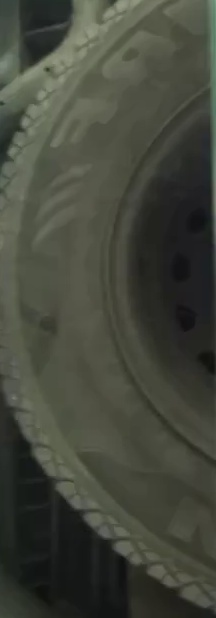
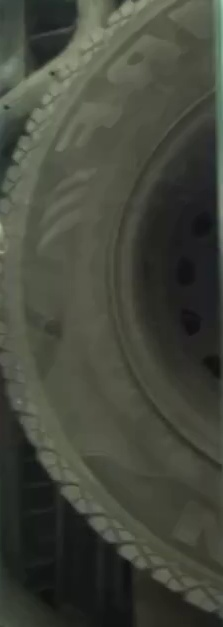
bounding box and combine image added in single file

diff --git a/main.py b/main.py
@@ -1,42 +1,90 @@
 import cv2
 import tkinter as tk
-from tkinter import ttk
+from tkinter import ttk, messagebox
 import os
 import numpy as np
 
-# Function to extract and crop frames
+# Global variables for bounding box selection
+bbox = None
+cropping = False
+x_start, y_start, x_end, y_end = 0, 0, 0, 0
+
+def select_bbox(event, x, y, flags, param):
+    """Handles mouse events for selecting the bounding box."""
+    global x_start, y_start, x_end, y_end, cropping, bbox
+    if event == cv2.EVENT_LBUTTONDOWN:
+        x_start, y_start = x, y
+        cropping = True
+    elif event == cv2.EVENT_MOUSEMOVE and cropping:
+        x_end, y_end = x, y
+    elif event == cv2.EVENT_LBUTTONUP:
+        x_end, y_end = x, y
+        cropping = False
+        bbox = (min(x_start, x_end), min(y_start, y_end), abs(x_end - x_start), abs(y_end - y_start))
+        print(f"Selected Bounding Box: {bbox}")
+        messagebox.showinfo("Bounding Box Selected", f"Coordinates: {bbox}")
+        cv2.destroyAllWindows()
+
+def show_first_frame():
+    """Displays the first frame of the video and lets the user select a bounding box."""
+    global bbox
+
+    cap = cv2.VideoCapture("video.mp4")
+    ret, frame = cap.read()
+    cap.release()
+
+    if not ret:
+        messagebox.showerror("Error", "Cannot read video file")
+        return
+
+    frame = cv2.rotate(frame, cv2.ROTATE_90_COUNTERCLOCKWISE)
+
+    cv2.namedWindow("Select Bounding Box")
+    cv2.setMouseCallback("Select Bounding Box", select_bbox)
+
+    while True:
+        temp_frame = frame.copy()
+        if bbox:
+            x, y, w, h = bbox
+            cv2.rectangle(temp_frame, (x, y), (x + w, y + h), (0, 255, 0), 2)
+        cv2.imshow("Select Bounding Box", temp_frame)
+        key = cv2.waitKey(1) & 0xFF
+        if key == 27 or bbox:
+            break
+
+    cv2.destroyAllWindows()
+
 def extract_frames():
-    video_path = "video.mp4"  # Change if needed
+    """Extracts and crops frames based on the selected bounding box."""
+    global bbox
+    if bbox is None:
+        messagebox.showerror("Error", "No bounding box selected")
+        return
+
+    video_path = "video.mp4"
     cap = cv2.VideoCapture(video_path)
 
     if not cap.isOpened():
         print("Error: Cannot open video file")
         return
-    
-    skip_frames = int(slider.get())  # Get skip value from slider
-    frame_count = 0
 
-    # Create output folder
+    skip_frames = int(slider.get())
+    frame_count = 0
     output_folder = "extracted_frames"
     os.makedirs(output_folder, exist_ok=True)
 
-    # Cropping coordinates
-    x, y, width, height = 166, 12, 216, 618
+    x, y, width, height = bbox
 
     while True:
         ret, frame = cap.read()
         if not ret:
             break
 
-        # Rotate frame 90 degrees anti-clockwise
         frame = cv2.rotate(frame, cv2.ROTATE_90_COUNTERCLOCKWISE)
-
-        # Crop the frame using the given bounding box
         cropped_frame = frame[y:y+height, x:x+width]
 
-        # Save frame if it meets the skip condition
         if frame_count % (skip_frames + 1) == 0:
-            frame_filename = f"{output_folder}/frame_{frame_count:04d}.jpg"  # 4-digit format
+            frame_filename = f"{output_folder}/frame_{frame_count:04d}.jpg"
             cv2.imwrite(frame_filename, cropped_frame)
             print(f"Saved: {frame_filename}")
 
@@ -45,49 +93,32 @@ def extract_frames():
     cap.release()
     print("Frame extraction and cropping completed.")
 
-# Function to combine images horizontally
 def combine_images_horizontally():
+    """Combines extracted frames into a single image."""
     input_folder = "extracted_frames"
     output_image = "combined_image.jpg"
 
-    # Get sorted list of image files
     image_files = sorted([f for f in os.listdir(input_folder) if f.endswith(('.jpg', '.png'))])
-
-    # Check if images exist
     if not image_files:
         print("No images found in the folder.")
         return
 
-    # Read all images
     images = [cv2.imread(os.path.join(input_folder, img)) for img in image_files]
-
-    # Ensure all images have the same height
     height = images[0].shape[0]
     images = [cv2.resize(img, (img.shape[1], height)) for img in images]
-
-    # Concatenate images horizontally
     combined_image = np.hstack(images)
-
-    # Save the combined image
     cv2.imwrite(output_image, combined_image)
     print(f"Saved combined image as {output_image}")
 
 # GUI Setup
 root = tk.Tk()
-root.title("Frame Extractor & Image Combiner")
+root.title("Video Processing Tool")
 
-# Slider for skipping frames
+tk.Button(root, text="Select Bounding Box", command=show_first_frame).pack(pady=10)
 tk.Label(root, text="Frames to Skip:").pack()
 slider = tk.Scale(root, from_=0, to=100, orient="horizontal")
 slider.pack()
+ttk.Button(root, text="Extract & Crop Frames", command=extract_frames).pack()
+ttk.Button(root, text="Combine Images Horizontally", command=combine_images_horizontally).pack()
 
-# Extract Button
-extract_button = ttk.Button(root, text="Extract & Crop Frames", command=extract_frames)
-extract_button.pack()
-
-# Combine Button
-combine_button = ttk.Button(root, text="Combine Images Horizontally", command=combine_images_horizontally)
-combine_button.pack()
-
-# Run GUI
 root.mainloop()

diff --git a/combineImage.py b/combineImage.py
@@ -1,0 +1,93 @@
+import cv2
+import tkinter as tk
+from tkinter import ttk
+import os
+import numpy as np
+
+# Function to extract and crop frames
+def extract_frames():
+    video_path = "video.mp4"  # Change if needed
+    cap = cv2.VideoCapture(video_path)
+
+    if not cap.isOpened():
+        print("Error: Cannot open video file")
+        return
+    
+    skip_frames = int(slider.get())  # Get skip value from slider
+    frame_count = 0
+
+    # Create output folder
+    output_folder = "extracted_frames"
+    os.makedirs(output_folder, exist_ok=True)
+
+    # Cropping coordinates
+    x, y, width, height = 166, 12, 216, 618
+
+    while True:
+        ret, frame = cap.read()
+        if not ret:
+            break
+
+        # Rotate frame 90 degrees anti-clockwise
+        frame = cv2.rotate(frame, cv2.ROTATE_90_COUNTERCLOCKWISE)
+
+        # Crop the frame using the given bounding box
+        cropped_frame = frame[y:y+height, x:x+width]
+
+        # Save frame if it meets the skip condition
+        if frame_count % (skip_frames + 1) == 0:
+            frame_filename = f"{output_folder}/frame_{frame_count:04d}.jpg"  # 4-digit format
+            cv2.imwrite(frame_filename, cropped_frame)
+            print(f"Saved: {frame_filename}")
+
+        frame_count += 1
+
+    cap.release()
+    print("Frame extraction and cropping completed.")
+
+# Function to combine images horizontally
+def combine_images_horizontally():
+    input_folder = "extracted_frames"
+    output_image = "combined_image.jpg"
+
+    # Get sorted list of image files
+    image_files = sorted([f for f in os.listdir(input_folder) if f.endswith(('.jpg', '.png'))])
+
+    # Check if images exist
+    if not image_files:
+        print("No images found in the folder.")
+        return
+
+    # Read all images
+    images = [cv2.imread(os.path.join(input_folder, img)) for img in image_files]
+
+    # Ensure all images have the same height
+    height = images[0].shape[0]
+    images = [cv2.resize(img, (img.shape[1], height)) for img in images]
+
+    # Concatenate images horizontally
+    combined_image = np.hstack(images)
+
+    # Save the combined image
+    cv2.imwrite(output_image, combined_image)
+    print(f"Saved combined image as {output_image}")
+
+# GUI Setup
+root = tk.Tk()
+root.title("Frame Extractor & Image Combiner")
+
+# Slider for skipping frames
+tk.Label(root, text="Frames to Skip:").pack()
+slider = tk.Scale(root, from_=0, to=100, orient="horizontal")
+slider.pack()
+
+# Extract Button
+extract_button = ttk.Button(root, text="Extract & Crop Frames", command=extract_frames)
+extract_button.pack()
+
+# Combine Button
+combine_button = ttk.Button(root, text="Combine Images Horizontally", command=combine_images_horizontally)
+combine_button.pack()
+
+# Run GUI
+root.mainloop()
